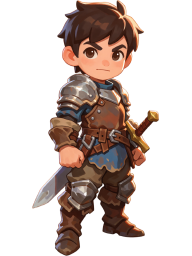
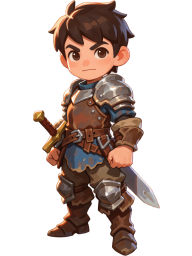
world2: 기사 전신 좌우 반전

diff --git a/game-card-world2/docs/아이콘_목록.md b/game-card-world2/docs/아이콘_목록.md
@@ -2161,6 +2161,7 @@ Full-body creature art of a giant armored sea crustacean lord with a massive lay
 ### portrait_knight — 기사 — full
 - 파일: `images/portrait/portrait_knight.png`
 - 생성: 2026-10-07 · seed `87630483` · 옵션 `--kind person --style deform --card-from face --seg-text face --denoise-upper 0.12 --denoise-face 0.05 --upper-pad 85 --upper-down 170 --face-pad 170 --face-down 10`
+- 메모: 2026-10-07 좌우를 뒤집어 저장함 (파일 자체가 반전본)
 ```
 Full-body character splash art of a young knight in worn leather and plate armor, short sword at his side, determined face, standing in a relaxed ready stance, facing the viewer, body turned three-quarters, whole body visible from head to toe, stylized deformed proportions: a large expressive head about one fifth of the body height, compact sturdy body, small hands and feet, centered composition. stylized fantasy video-game character art, hand-painted illustration with visible painterly brushwork, soft cel-shaded volumes with clean readable shapes, warm vivid colors, gentle rim lighting, appealing character-design rendering, sharp focus, plain flat neutral grey studio backdrop, no scenery, no props, no other characters. no photorealism, not a photo, no hyperreal skin pores, no gritty realism, no text, no watermark, no extra characters.
 ```

diff --git a/game-card-world2/docs/기능.md b/game-card-world2/docs/기능.md
@@ -3928,6 +3928,8 @@
 - [x] v9.55.2: **여관 퀘스트** — 등록하면 기사의 수첩에 한 줄로 올라온다 (🏨 딱지 · 장인 그림 · 지금 걸음 한 줄 · n/3)
   - 소문이면 가야 할 땅, 물건이면 `무른 가죽 0/3 · 억센 가죽 0/2`, 증명이면 넘어야 할 놈을 적는다
   - 걸음이 하나 끝나면 목표 줄처럼 **새 줄로 번쩍이며** 올라온다. 장인을 아직 못 찾았으면 이름 자리는 ???
+- [x] v9.58.2: 기사 전신()을 **좌우 반전**해 저장
+  - 줄(전투)에서는  이 한 번 더 뒤집으므로, 줄에 선 기사는 반대로 보인다 (미니 원정 바는 파일 그대로)
 - [x] v9.58.1: 인스펙터 큰 그림을 **상반신(`bust_<id>.png`)** 으로 — 사람 · 크리처 · 여관 주인 · 장인 모두
   - 인스펙터에 전신은 안 나온다. 전신은 줄(전투)에서 보는 그림이다
   - `bustOf('portrait_wolf') → 'bust_wolf'` 한 줄로 다 쓴다
